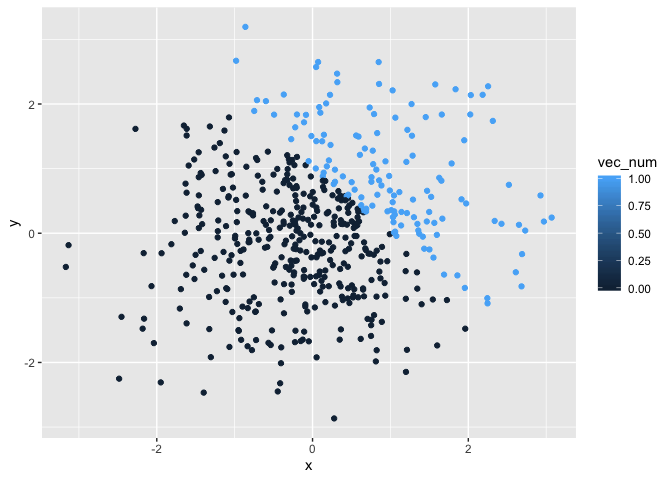
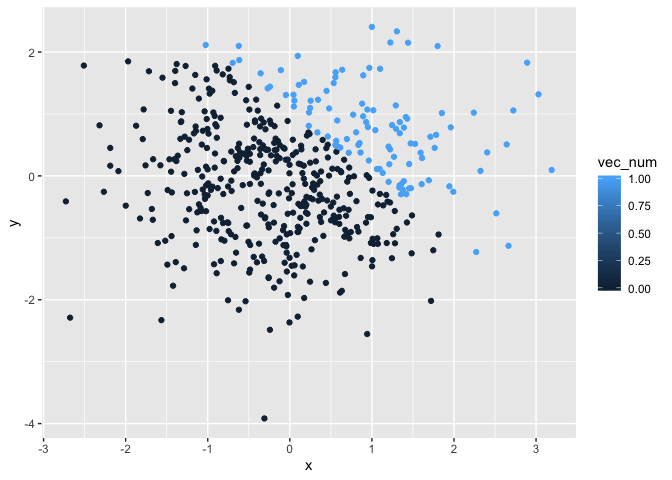
Exporting the first scatter plot to my project.

diff --git a/p8105_hw1_Ec3342.md b/p8105_hw1_Ec3342.md
@@ -40,13 +40,13 @@ first_df = tibble(
 mean(pull(first_df,norm_samp)) 
 ```
 
-    ## [1] 0.540264
+    ## [1] -0.006769427
 
 ``` r
 mean(pull(first_df,vec_log))
 ```
 
-    ## [1] 0.75
+    ## [1] 0.625
 
 ``` r
 mean(pull(first_df,vec_char))
@@ -112,8 +112,8 @@ vector into numeric and then multiplied that with the random
 as.numeric(pull(first_df,vec_log))*(pull(first_df,norm_samp))
 ```
 
-    ## [1] 2.6827229 0.1973766 0.3746485 0.1131865 0.0000000 0.3654065 1.8807046
-    ## [8] 0.0000000
+    ## [1] 0.5323767 0.0000000 0.6866156 0.0000000 0.0000000 0.2087342 0.6337436
+    ## [8] 0.3390372
 
 ``` r
 as.factor(pull(first_df,vec_log))*(pull(first_df,norm_samp))
@@ -128,8 +128,8 @@ as.factor(pull(first_df,vec_log))*(pull(first_df,norm_samp))
 as.numeric(as.factor(pull(first_df,vec_log)))*(pull(first_df,norm_samp))
 ```
 
-    ## [1]  5.3654458  0.3947532  0.7492971  0.2263731 -0.3859909  0.7308130
-    ## [7]  3.7614092 -0.9059425
+    ## [1]  1.0647534 -0.8848699  1.3732312 -1.0810842 -0.4887087  0.4174684
+    ## [7]  1.2674872  0.6780743
 
 # Question 2
 
@@ -157,10 +157,10 @@ vec_fac = as.factor(vec_log2)
 ## Description of the dataframe
 
   - The size of the dataframe is 500 and the number of columns are 5
-  - The mean of x is 0.0456839
-  - The median of x is 0.0437335
-  - The standard deviation of x is 1.0229124
-  - The proportion of cases for which x + y \> 1 is 0.268
+  - The mean of x is -0.0086839
+  - The median of x is -0.0348576
+  - The standard deviation of x is 0.996284
+  - The proportion of cases for which x + y \> 1 is 0.216
 
 ## Scatterplot
 
